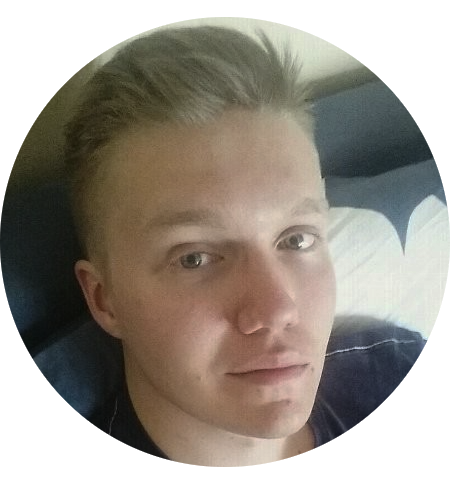
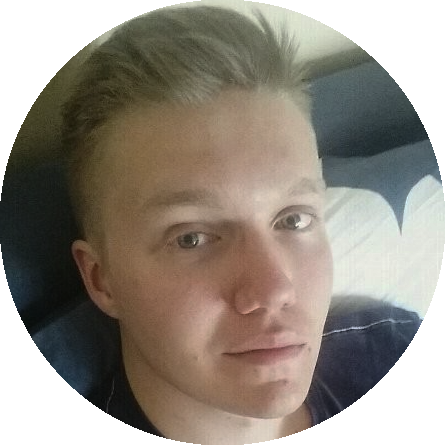
new testimonials added and some tiny tweaks on carousel

diff --git a/components/Carousel.js b/components/Carousel.js
@@ -2,6 +2,8 @@ import woman from "./img/woman.jpg"
 import man from "./img/man.jpg"
 import lady from "./img/lady.jpg"
 import joonas from "./img/joonas.png"
+import mikko from "./img/mikko.png"
+import vaapu from "./img/vaapu.png"
 import React from "react"
 import ChevronLeft from "./ChevronLeft"
 import ChevronRight from "./ChevronRight"
@@ -12,11 +14,21 @@ const comments = [
   {
     img: joonas,
     name: "Joonas Pitkonen",
-    title: "Tiiminvetäjä, DT Helsinki",
+    title: "Tiimivastaava, DT Helsinki",
     txt: ' "Teknisen osaamisensa lisäksi Milican vahvuuksia ovat huolellisuus, sinnikkyys, loistavat sosiaaliset taidot sekä aito halu oppia uutta. Suosittelen lämpimästi Milica Krivokapicia ohjelmistokehittäjän tehtäviin." ',
   },
-  { img: man, txt: "Erittäin jees! <3" },
-  { img: lady, txt: "5/5" },
+  {
+    img: mikko,
+    name: "Mikko Karjanmaa",
+    title: "Työkaveri/Vuohi Media",
+    txt: ' "Milica on asioita monesta näkökulmasta tutkiva työkaveri jonka kanssa on helppo puhua" ',
+  },
+  {
+    img: vaapu,
+    name: "Vaapukka Postimerkki",
+    title: "Pentu, kotitoimistokoira",
+    txt: ' "Milica on hyvä kotityökaveri, vaikka joskus minä kovasti puren ja suutun, kun hän anna minun tehdä tuhotöi... grrhöm, tarkoitan kotitöitäni." ',
+  },
 ]
 
 export default function Carousel() {
@@ -86,7 +98,7 @@ export default function Carousel() {
                 ref={refs[i]}
                 className="w-full flex-shrink-0 rounded-full flex flex-col items-center justify-start"
               >
-                <div className="lg:w-[18%] w-[50%] sm:w-[38%] p-3 rounded-full bg-transparent shadow-indigo-300/80 shadow-md ">
+                <div className="lg:w-[18%] w-[50%] sm:w-[38%] rounded-full bg-transparent drop-shadow-md ">
                   <img className="rounded-full" src={comment.img.src} />
                 </div>
                 <span className="font-Work text-sm md:text-lg font-bold text-blue-800 mt-4">

diff --git a/components/Testimonials.js b/components/Testimonials.js
@@ -4,8 +4,8 @@ import Image from "next/image"
 export default function Testimonials() {
   return (
     <div className="flex flex-col justify-center items-center">
-      <h2 className="font-bold text-2xl font-Quick mb-4 ">Suosituksia</h2>
-      <p className="font-Work text-center">
+      <h2 className="font-bold text-4xl font-Quick mb-4 ">Suosituksia</h2>
+      <p className="font-Work text-center text-xl">
         Tyypit joiden kanssa olen työskennelleet haluavat sanoa sanasen minusta:
       </p>
       <Carousel />
